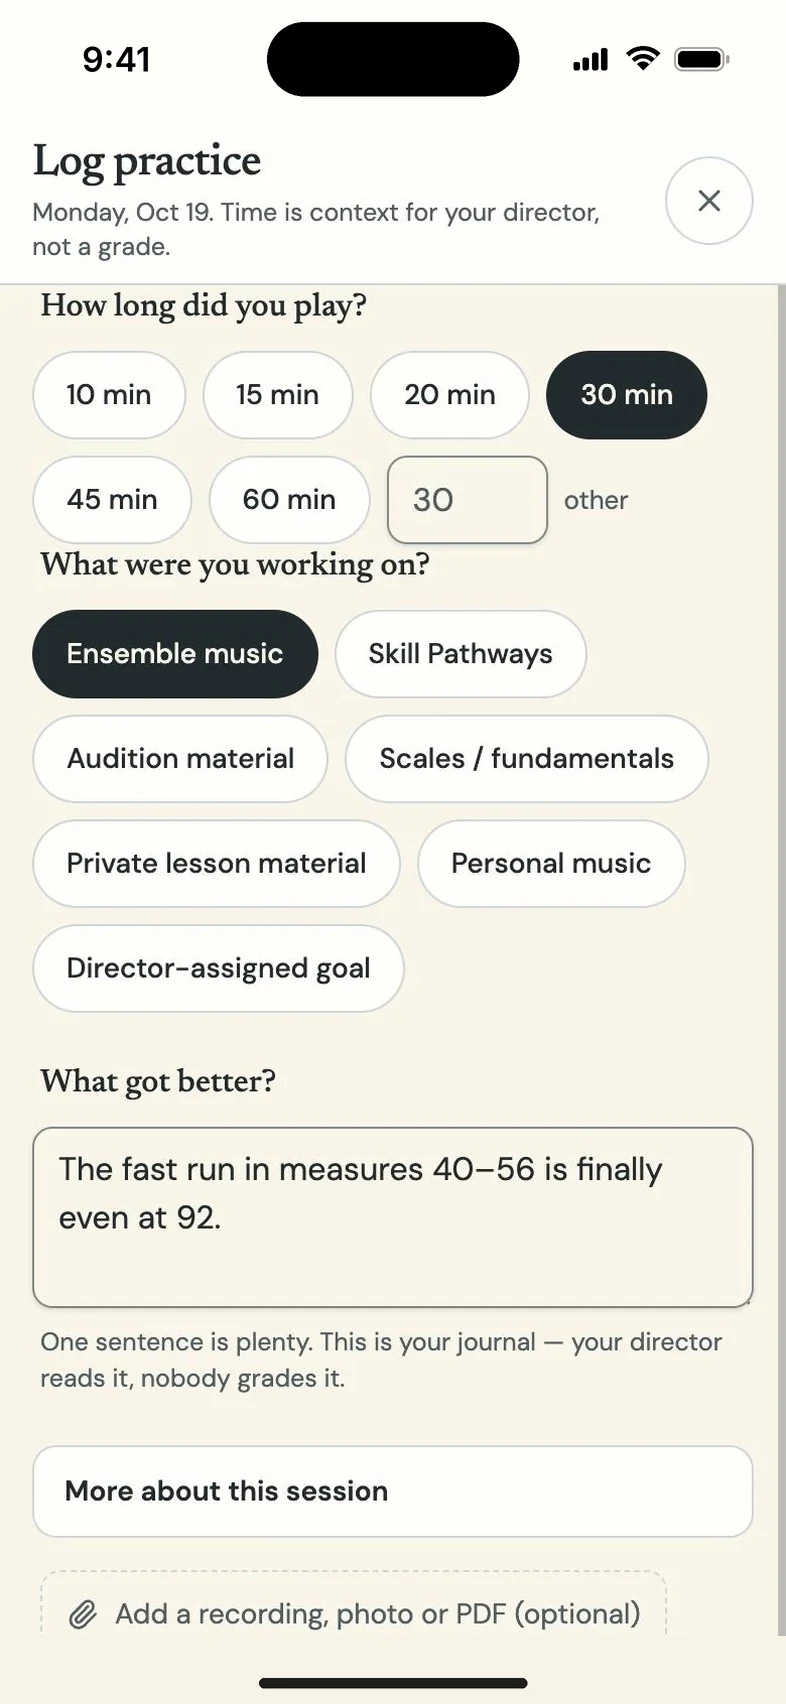
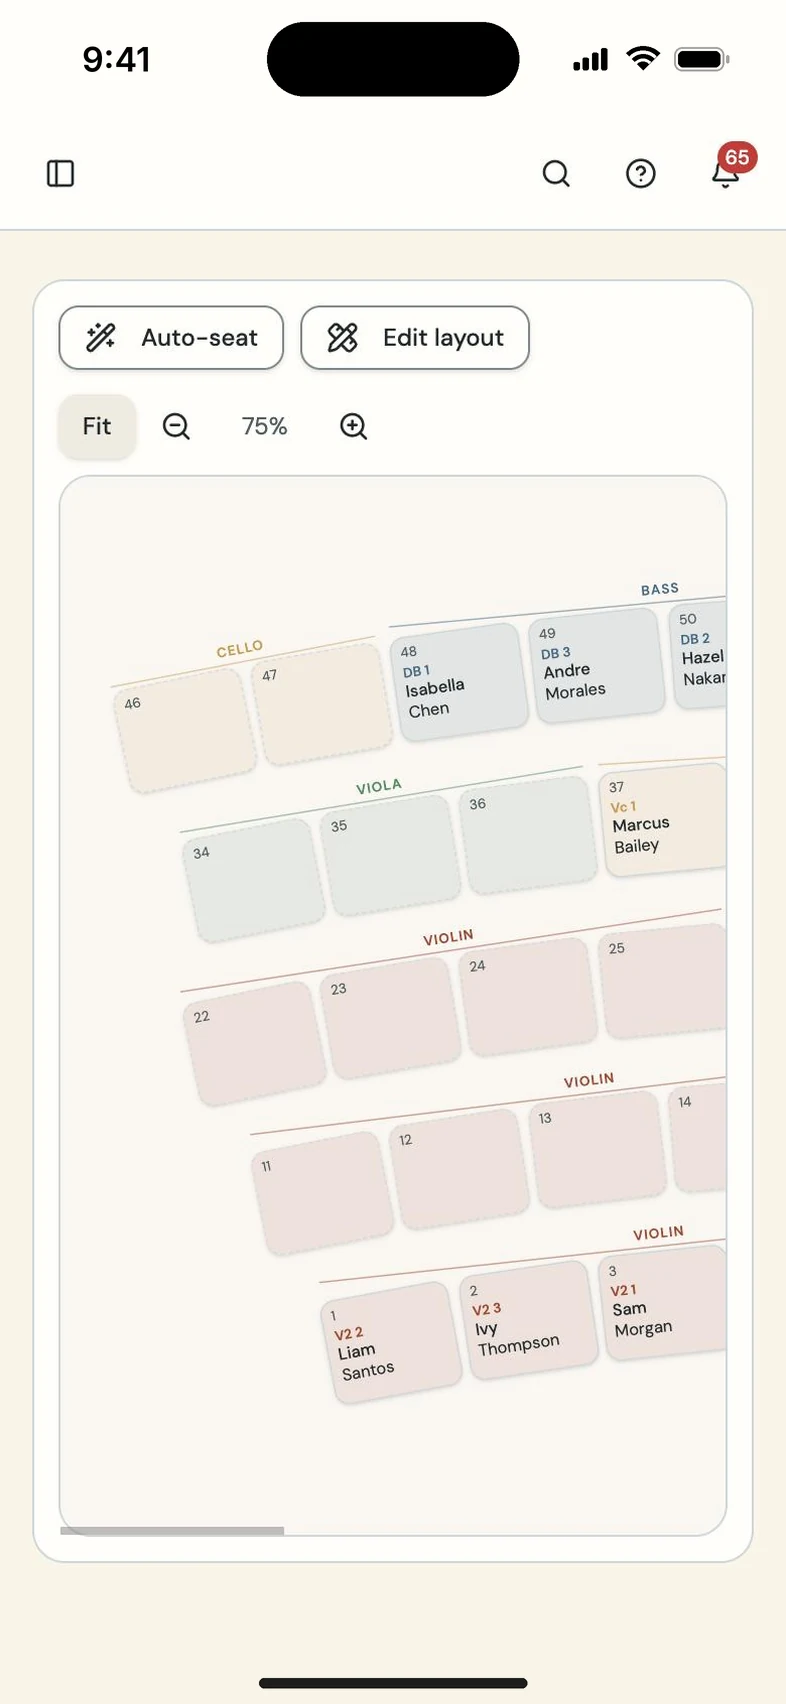
Seating page: a real seating chart on the phone
The phone image showed a student practice-log screen. It's now the
Winter Strings Concert combined chart from the Westbrook orchestra demo,
framed like the other phone screenshots.

Claude-Session: https://claude.ai/code/session_01Uda2aHsmeHDXD65ipYCZBZ

diff --git a/src/_data/features.js b/src/_data/features.js
@@ -312,7 +312,7 @@ const PATCH = {
 const PHONE = {
   fees: "parent portal payment", students: "parent portal home", communication: "parent announcements on a phone",
   forms: "parent signing a form", events: "parent event registration", inventory: "student instrument check-out",
-  library: "student digital part", seating: null, teaching: "student Skill Pathways submission"
+  library: "student digital part", seating: "combined concert seating chart on a phone", teaching: "student Skill Pathways submission"
 };
 
 export default Object.keys(F).map((key) => {
